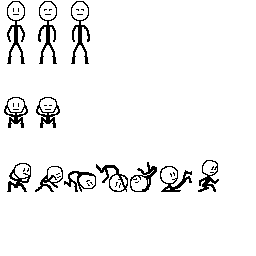
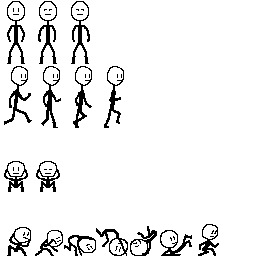
Add running

diff --git a/app/assets/client/js/trial/character.js b/app/assets/client/js/trial/character.js
@@ -18,6 +18,15 @@ let makeStandFilm = (row) => {
   ];
 };
 
+let makeRunFilm = (row) => {
+  return [
+    [9, row[0]],
+    [9, row[1]],
+    [9, row[2]],
+    [9, row[3]],
+  ];
+};
+
 let makeCrouchFilm = (row) => {
   return [
     [100, row[0]],
@@ -49,14 +58,19 @@ export default class Character {
 
       this.films = {
         STAND: makeStandFilm(spriteRows[0]),
-        CROUCH: makeCrouchFilm(spriteRows[1]),
-        ROLL: makeRollFilm(spriteRows[2])
+        RUN: makeRunFilm(spriteRows[1]),
+        CROUCH: makeCrouchFilm(spriteRows[2]),
+        ROLL: makeRollFilm(spriteRows[3])
       };
 
+      const SIDE_BOUND = 10;
+      const TALL_BOUNDS = [-SIDE_BOUND, SIDE_BOUND, -62, 0];
+      const SHORT_BOUNDS = [-SIDE_BOUND, SIDE_BOUND, -30, 0];
       this.bounds = {
-        STAND: [-10, 10, -62, 0],
-        CROUCH: [-10, 10, -30, 0],
-        ROLL: [-10, 10, -30, 0]
+        STAND: TALL_BOUNDS,
+        RUN: TALL_BOUNDS,
+        CROUCH: SHORT_BOUNDS,
+        ROLL: SHORT_BOUNDS,
       };
     });
   }
@@ -82,6 +96,7 @@ export default class Character {
     this.isFastfall = false;
     this.isCrouch = false;
     this.isRoll = false;
+    this.isRunning = false;
 
     this.pos = point.copy();
     this.velo = new Vector(0, 0);
@@ -98,6 +113,8 @@ export default class Character {
       return 'ROLL';
     } else if (this.isCrouch) {
       return 'CROUCH';
+    } else if (this.isRunning) {
+      return 'RUN';
     } else {
       return 'STAND';
     }

diff --git a/app/assets/client/js/trial/steps/apply-keypress.js b/app/assets/client/js/trial/steps/apply-keypress.js
@@ -5,7 +5,7 @@ const LEFT = KEY_A;
 const DOWN = KEY_S;
 const RIGHT = KEY_D;
 
-const SPEED = 1.4;
+const RUN_SPEED = 1.4;
 const CROUCH_AIR_DI = 0.4;
 const ROLL_BASE_SPEED = 3;
 const ROLL_INFLUENCE_SPEED = 1.5;
@@ -49,7 +49,13 @@ export default class ApplyKeypress {
         entity.velo.x *= 0.95;
       }
     } else {
-      entity.velo.x += downDir * SPEED;
+      if (isSide) {
+        entity.velo.x += downDir * RUN_SPEED;
+        entity.isRight = isRight;
+        entity.isRunning = true;
+      } else {
+        entity.isRunning = false;
+      }
       entity.velo.x *= 0.8;
 
       let jumpPressed = keys.isPressed(UP) || keys.isDown(UP) && preAdvanceState === 'ROLL';

diff --git a/app/assets/client/js/trial/steps/keep-state.js b/app/assets/client/js/trial/steps/keep-state.js
@@ -6,6 +6,7 @@ export default class KeepState {
       isFastfall: character.isFastfall,
       isCrouch: character.isCrouch,
       isRoll: character.isRoll,
+      isRunning: character.isRunning,
       state: character.state
     };
   }
